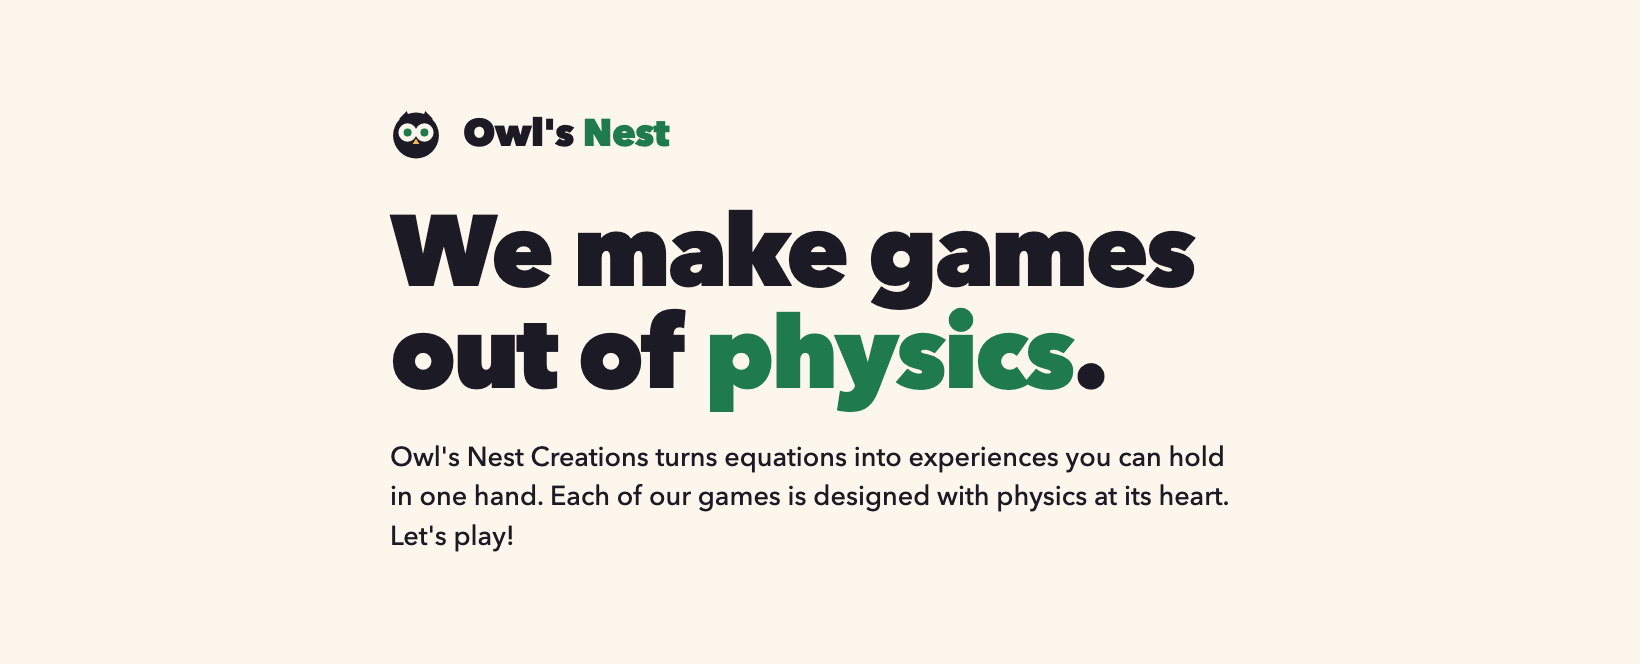
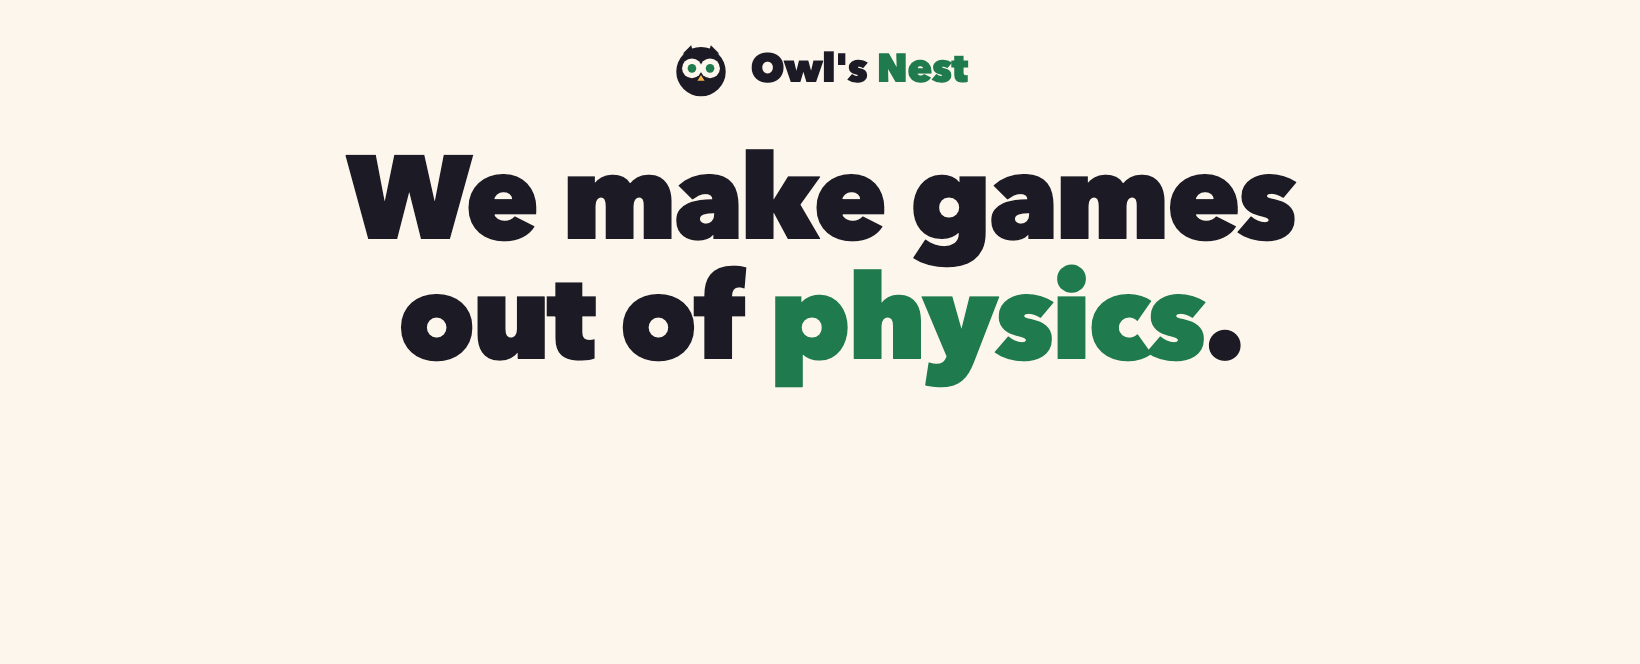
Recut the Facebook cover to a centred headline and studio mark over a clear foot

Changed region(s): [[0.1866, 0.1506, 0.8085, 0.6325], [0.2488, 0.6627, 0.7463, 0.8434], [0.4043, 0.0602, 0.5909, 0.1506]]

diff --git a/assets/img/social/facebook-social.html b/assets/img/social/facebook-social.html
@@ -25,7 +25,11 @@
     /* Facebook crops the cover hard on phones; everything lives in here. */
     --safe-width: 1092px;
     /* The hero column itself, centred inside that safe area. */
-    --column-width: 860px;
+    --column-width: 1000px;
+    /* Facebook lays the round profile photo over the foot of the cover - low
+       and centred on a phone, bottom-left on a desktop - so the cover keeps
+       this much of its height empty and the content balances in what is left. */
+    --cover-reserved-foot: 240px;
   }
 
   * { margin: 0; padding: 0; box-sizing: border-box; }
@@ -55,6 +59,7 @@
   .board-cover .safe {
     width: var(--safe-width);
     height: 100%;
+    padding-bottom: var(--cover-reserved-foot);
     margin: 0 auto;
     display: flex;
     flex-direction: column;
@@ -64,14 +69,16 @@
 
   .board-cover .column {
     width: var(--column-width);
+    text-align: center;
   }
 
   .wordmark {
     display: flex;
     align-items: center;
-    gap: 21px;
+    justify-content: center;
+    gap: 22px;
     font-weight: 800;
-    font-size: 38px;
+    font-size: 40px;
     letter-spacing: -0.02em;
     line-height: 1;
     color: var(--ink);
@@ -81,20 +88,13 @@
 
   .board-cover h1 {
     margin-top: 44px;
-    font-size: 100px;
+    font-size: 118px;
     font-weight: 800;
     line-height: 1.02;
     letter-spacing: -0.03em;
   }
 
   .hero-accent { color: var(--accent); }
-
-  .board-cover p {
-    margin-top: 30px;
-    font-size: 27px;
-    font-weight: 500;
-    line-height: 1.45;
-  }
 
   /* ---- Profile: 1080x1080 ---- */
 
@@ -120,7 +120,7 @@
   <div class="safe">
    <div class="column">
     <div class="wordmark">
-      <svg width="52" height="52" viewBox="0 0 34 34" aria-hidden="true">
+      <svg width="56" height="56" viewBox="0 0 34 34" aria-hidden="true">
         <path d="M6 7 L11 2 L13 8 Z" fill="var(--ink)"/>
         <path d="M28 7 L23 2 L21 8 Z" fill="var(--ink)"/>
         <circle cx="17" cy="18" r="15" fill="var(--ink)"/>
@@ -133,7 +133,6 @@
       <span class="wm-text">Owl's <span class="wm-accent">Nest</span></span>
     </div>
     <h1>We make games<br>out of <span class="hero-accent">physics</span>.</h1>
-    <p>Owl's Nest Creations turns equations into experiences you can hold in one hand. Each of our games is designed with physics at its heart. Let's play!</p>
    </div>
   </div>
 </div>
